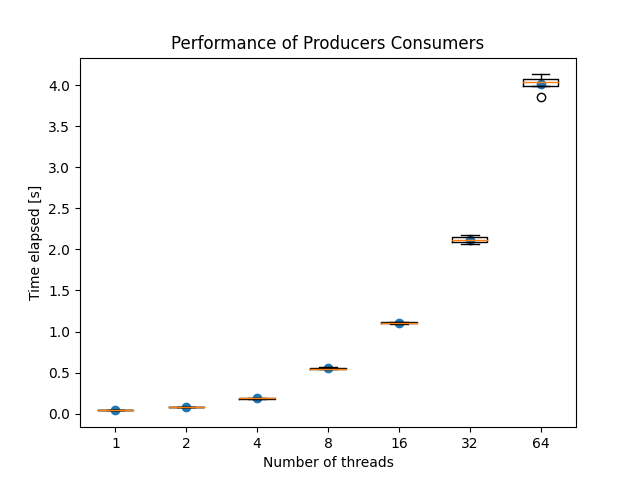
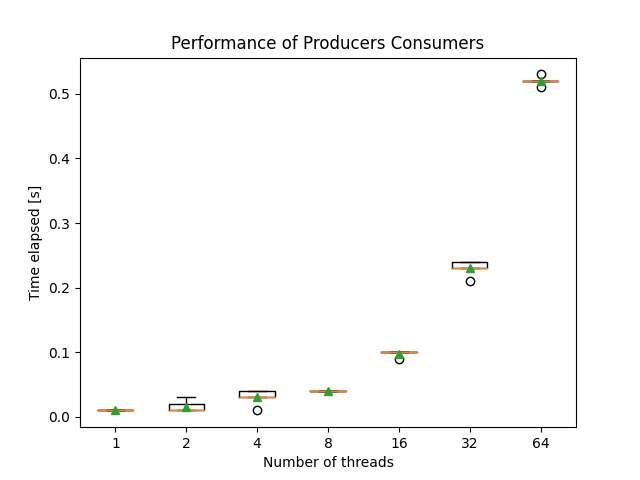
f_ro

diff --git a/Partie1/utils/prod_cons.c b/Partie1/utils/prod_cons.c
@@ -15,46 +15,37 @@ int* buffer;
 int ind=0;
 int j=0;
 
-void insert_item(int item, int index,int Pp){
+void insert_item(int item){
     buffer[ind]=item;
-    //printf("Producer %d inserted item %d at %d\n", Pp, buffer[ind],ind);
 }
 
-void producer(void* p){
-    int P = atoi(p);
+void producer(void){
     int item;
     int i=0;
     while(i<MaxItems){
-        item=rand();
+        for (int k=0; k<1000; k++);
         sem_wait(&empty);
         pthread_mutex_lock(&mutex);
-        insert_item(item,ind,P);
+        insert_item(item);
         ind=(ind+1)%N;
-        for (int k=0; k<1000; k++){
-            //printf("Producer [%d], treatement [%d]\n",P,k);
-        }
         pthread_mutex_unlock(&mutex);
         sem_post(&full);
         i++;
     }
 }
- 
-void consumer(void* p){
-    //int P = atoi(p);
+
+void consumer(void){
     int i=0;
+    int item;
     while(i<MaxItems)
     {
         sem_wait(&full); // waiting for free place
         pthread_mutex_lock(&mutex);
-        //int item=buffer[j];
-        buffer[j]=0;
-        //printf("Consumer %d removed item %d at %d\n", P, item,j);
+        item=buffer[j];
         j=(j+1)%N;
-        for (int k=0; k<1000; k++){
-            //printf("Consumer [%d], treatement [%d]\n",P,k);
-        }
         pthread_mutex_unlock(&mutex);
         sem_post(&empty); // one more place free
+        for (int k=0; k<1000; k++);
         i++;
     }
 }
@@ -62,37 +53,24 @@ void consumer(void* p){
 int main(int argc, char const *argv[]){
 
     buffer=malloc(N*sizeof(int));
-    int cons = atoi(argv[1]);
-    // printf("Cons = %d\n",cons);
-    int prod = atoi(argv[2]);
-    // printf("Prod = %d\n",prod);
+    int cons = atoi(argv[2]);
+    int prod = atoi(argv[1]);
     pthread_t pro[cons],con[prod];
     pthread_mutex_init(&mutex, NULL);
     sem_init(&empty,0,N);
     sem_init(&full,0,0);
-    int* a_prod = malloc(sizeof(int)*prod);
-    for(int i=0; i<prod; i++){
-        a_prod[i]=i;
-    }
-    int* a_cons = malloc(sizeof(int)*cons);
-    for(int i=0; i<cons; i++){
-        a_cons[i]=i;
-    }
     for(int i = 0; i < prod; i++) {
-        pthread_create(&pro[i], NULL, (void *)producer, (void*)&a_prod[i]);
+        pthread_create(&pro[i], NULL, (void *)producer, NULL);
     }
-
     for(int i = 0; i < cons; i++) {
-         pthread_create(&con[i], NULL, (void *)consumer, (void*)&a_cons[i]);
-     }
-
+         pthread_create(&con[i], NULL, (void *)consumer, NULL);
+    }
     for(int i = 0; i < prod; i++) {
         pthread_join(pro[i], NULL);
     }
     for(int i = 0; i < cons; i++) {
         pthread_join(con[i], NULL);
     }
-
     pthread_mutex_destroy(&mutex);
     sem_destroy(&empty);
     sem_destroy(&full);

diff --git a/Partie1/utils/plots.py b/Partie1/utils/plots.py
@@ -4,47 +4,31 @@ import numpy as np
 
 t=[1, 2, 4, 8, 16, 32, 64]
 n=len(t)
-data1=pd.read_csv("../csv/perf_philo.csv", sep=';')
-data2=pd.read_csv("../csv/perf_wr_read.csv", sep=';')
-data3=pd.read_csv("../csv/perf_prod_cons.csv", sep=';')
+data1=pd.read_csv("csv/perf_philo.csv", sep=';')
+data2=pd.read_csv("csv/perf_wr_read.csv", sep=';')
+data3=pd.read_csv("csv/perf_prod_cons.csv", sep=';')
 
-def graph(d, title, xlab, ylab, mean):
+def graph(d, title, xlab, ylab):
     plt.title(title)
-    plt.boxplot(d)
+    plt.boxplot(d, showmeans=True)
     plt.xlabel(xlab)
     plt.ylabel(ylab)
-    y = np.arange(1,8,1)
     plt.xticks([1,2,3,4,5,6,7],t)
-    plt.scatter(y, mean, label='Mean')
-    plt.plot()
-    ttl=title+'.png'
+    ttl='png/'+title+'.png'
     plt.savefig(ttl)
     plt.close()
 
 arr1=np.zeros((n,5))
 arr2=np.zeros((n,5))
 arr3=np.zeros((n,5))
-mean1 = np.zeros(n)
-mean2 = np.zeros(n)
-mean3 = np.zeros(n)
 
-j = 0
-i = 0
-while(i < n):
-    while (j < 5):
+for i in range(n):
+    for j in range(5):
         arr1[i][j] = data1[" Time elapsed [s]"][i*5 + j]
         arr2[i][j] = data2[" Time elapsed [s]"][i*5 + j]
         arr3[i][j] = data3[" Time elapsed [s]"][i*5 + j]
-        mean1[i] += arr1[i][j] 
-        mean2[i] += arr2[i][j] 
-        mean3[i] += arr3[i][j] 
-        j += 1
-    mean1[i] /= 5
-    mean2[i] /= 5
-    mean3[i] /= 5
-    i += 1
-    j = 0
 
-graph(arr1.transpose(),"Performance of Philosophers", "Number of threads", "Time elapsed [s]", mean1)
-graph(arr2.transpose(),"Performance of writer reader", "Number of threads", "Time elapsed [s]", mean2)
-graph(arr3.transpose(),"Performance of Producers Consumers", "Number of threads", "Time elapsed [s]", mean3)
+
+graph(arr1.transpose(),"Performance of Philosophers", "Number of threads", "Time elapsed [s]")
+graph(arr2.transpose(),"Performance of writer reader", "Number of threads", "Time elapsed [s]")
+graph(arr3.transpose(),"Performance of Producers Consumers", "Number of threads", "Time elapsed [s]")

diff --git a/Partie2/verrou_asm.c b/Partie2/verrou_asm.c
@@ -1,0 +1,9 @@
+
+int main(){
+
+
+    int target=1;
+    asm("lock; xchgl %0, %1"
+
+    )
+}
